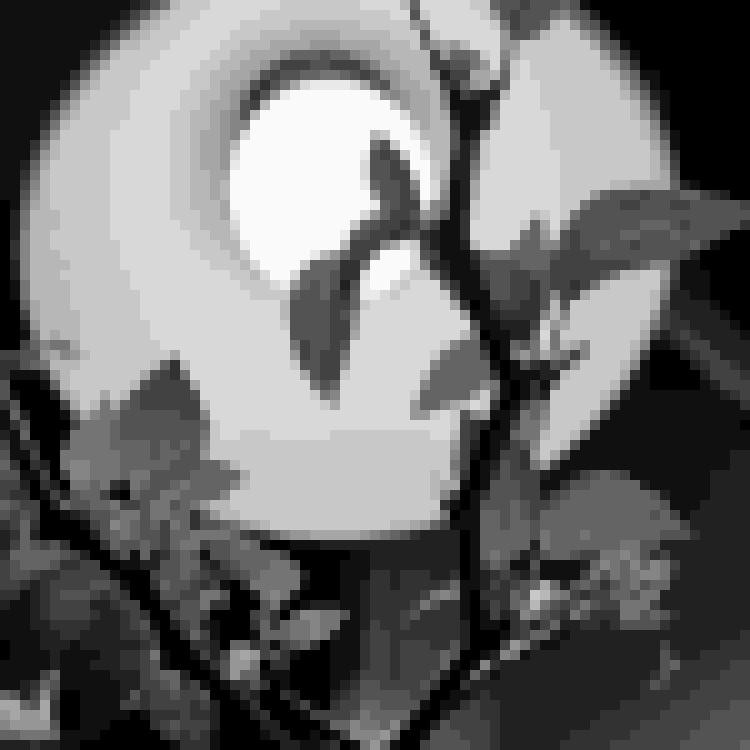
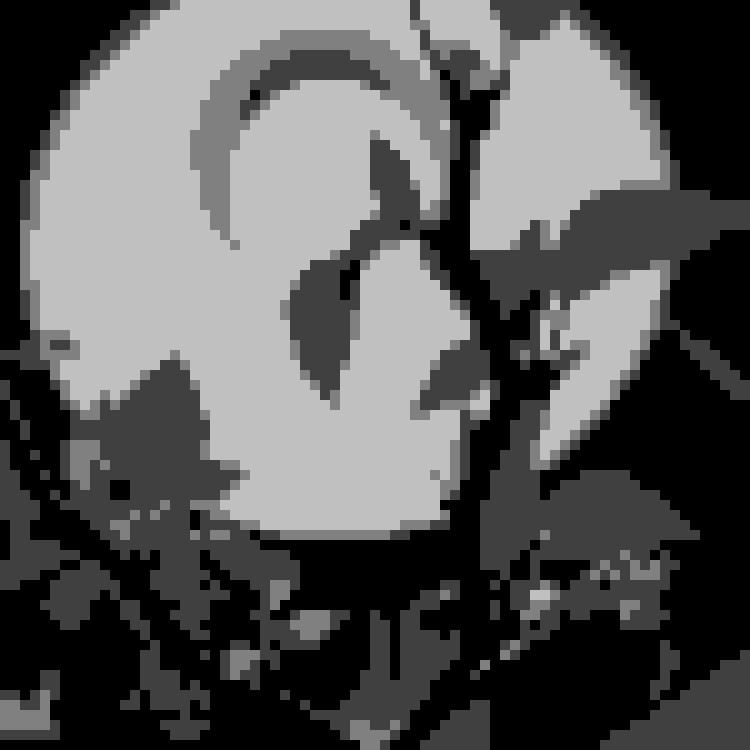
2 этап выполнен

diff --git a/filter.py b/filter.py
@@ -1,28 +1,47 @@
 from PIL import Image
 import numpy as np
+
+
+def crop_img(img_data, mosaic_width, mosaic_height):
+    height_diff = len(img_data) % mosaic_height
+    width_diff = len(img_data[1]) % mosaic_width
+    return img_data[:len(img_data) - height_diff, :len(img_data[1]) - width_diff]
+
+
+def get_pixel_color_sum(img_data, x, y):
+    r = img_data[y][x][0]
+    g = img_data[y][x][1]
+    b = img_data[y][x][2]
+    return int(r) + int(g) + int(b)
+
+
+def set_pixel(img_data, x, y, sum, gradation):
+    img_data[y][x][0] = int(sum // gradation) * gradation
+    img_data[y][x][1] = int(sum // gradation) * gradation
+    img_data[y][x][2] = int(sum // gradation) * gradation
+
+
 img = Image.open("img2.jpg")
-arr = np.array(img)
-a = len(arr)
-a1 = len(arr[1])
-i = 0
-while i < a:
-    j = 0
-    while j < a1:
-        s = 0
-        for n in range(i, i + 10):
-            for n1 in range(j, j + 10):
-                r = arr[n][n1][0]
-                g = arr[n][n1][1]
-                b = arr[n][n1][2]
-                M = int(r) + int(g) + int(b)
-                s += M
-        s = int(s // 100)
-        for n in range(i, i + 10):
-            for n1 in range(j, j + 10):
-                arr[n][n1][0] = int(s // 50) * 50 / 3
-                arr[n][n1][1] = int(s // 50) * 50 / 3
-                arr[n][n1][2] = int(s // 50) * 50 / 3
-        j = j + 10
-    i = i + 10
-res = Image.fromarray(arr)
+
+mosaic_width = int(input("Ширина мозайки: "))
+mosaic_height = int(input("Высота мозайки: "))
+gradation = 256 / int(input("Градация: "))
+img_data = crop_img(np.array(img), mosaic_width, mosaic_height)
+height = len(img_data)
+width = len(img_data[1])
+y = 0
+while y < height:
+    x = 0
+    while x < width:
+        sum = 0
+        for y1 in range(y, y + mosaic_height):
+            for x1 in range(x, x + mosaic_width):
+                sum += get_pixel_color_sum(img_data, x1, y1)
+        sum = int(sum // (mosaic_width * mosaic_height))
+        for y1 in range(y, y + mosaic_height):
+            for x1 in range(x, x + mosaic_width):
+                set_pixel(img_data, x1, y1, sum / 3, gradation)
+        x = x + mosaic_width
+    y = y + mosaic_height
+res = Image.fromarray(img_data)
 res.save('res.jpg')
